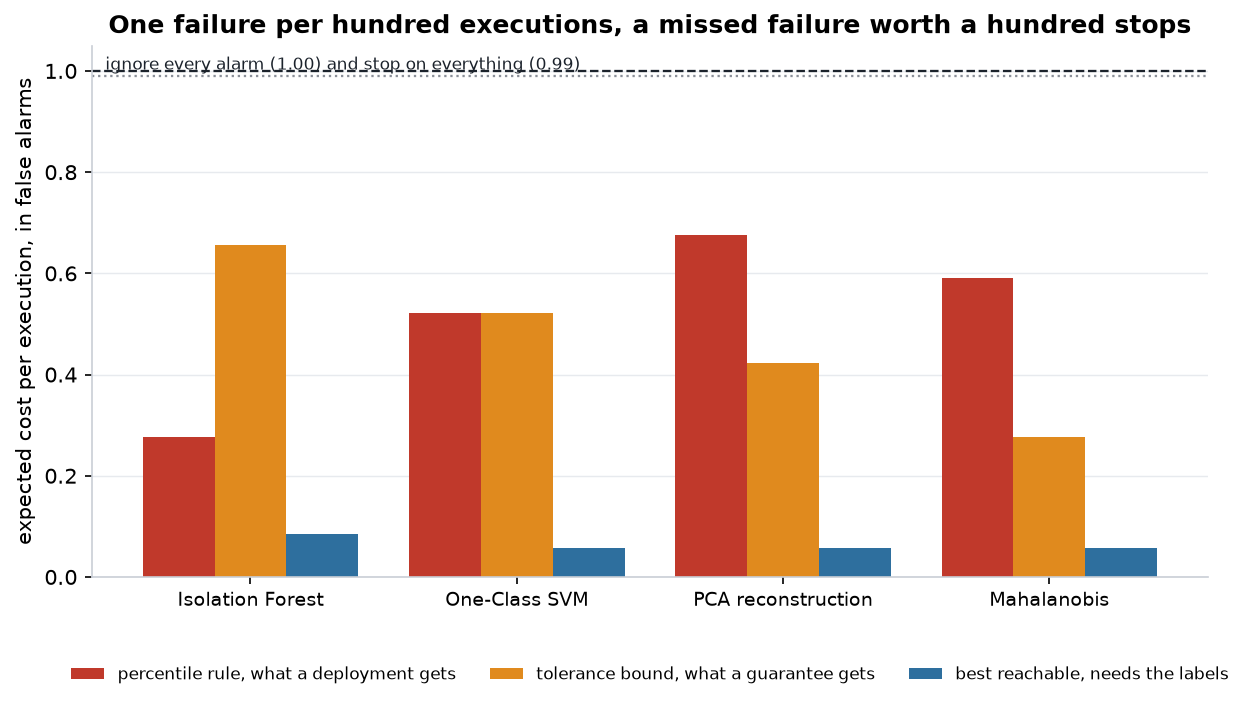
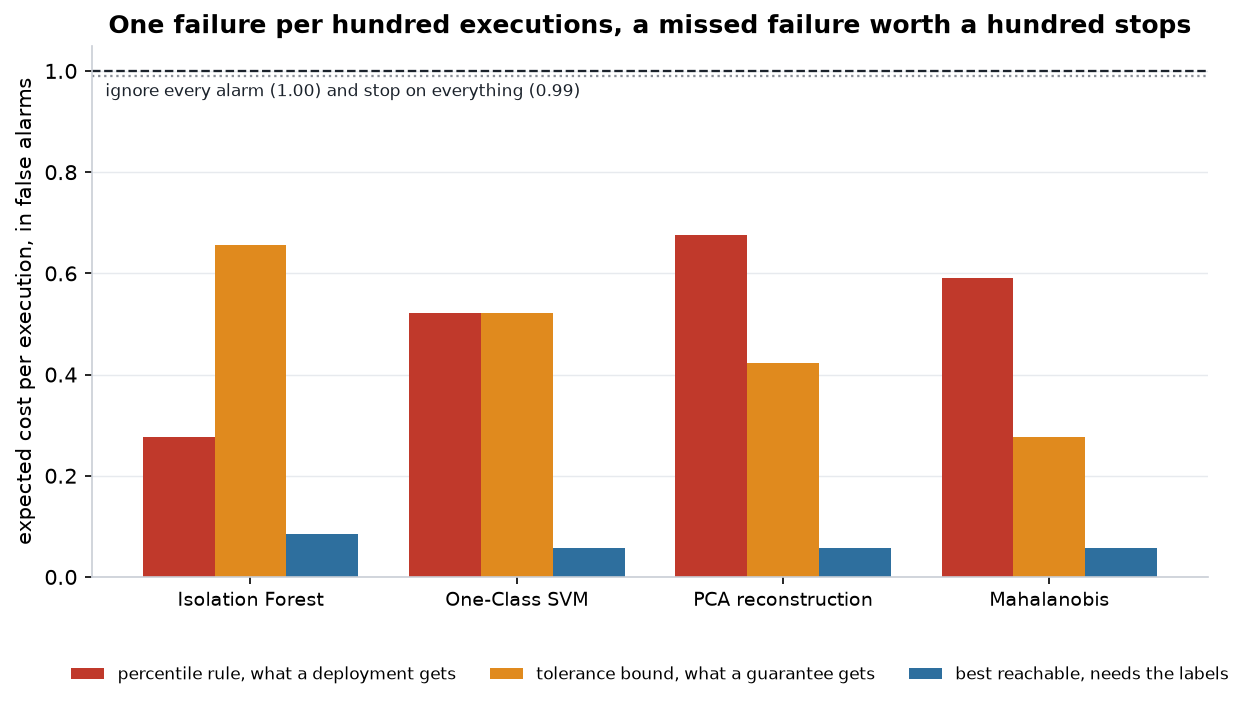
fix(figures): l'annotation des politiques triviales était barrée par sa propre ligne
Texte descendu sous les deux traits de référence et posé sur un fond blanc, sinon
la grille le traversait.

Changed region(s): [[0.0936, 0.0624, 0.468, 0.156]]

diff --git a/scripts/figures.py b/scripts/figures.py
@@ -517,11 +517,12 @@ def figure_deployment_cost(deployment: dict, out: Path) -> None:
     axis.axhline(always, color=GREY, linestyle=":", linewidth=1.1)
     axis.text(
         0.012,
-        0.955,
+        0.905,
         f"ignore every alarm ({nothing:.2f}) and stop on everything ({always:.2f})",
         transform=axis.transAxes,
         fontsize=8,
         color=DARK,
+        bbox={"facecolor": "white", "edgecolor": "none", "pad": 1.5},
     )
 
     axis.set_xticks(position)
